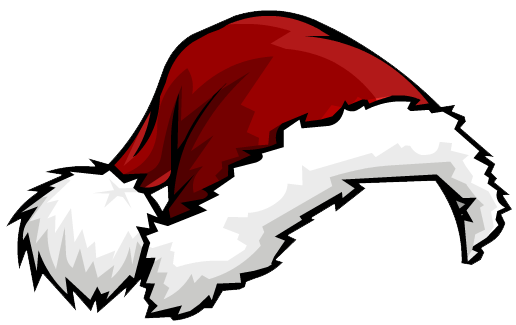
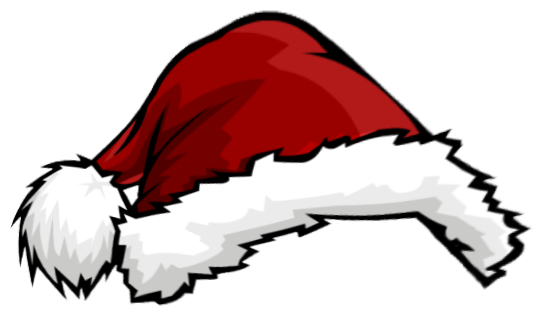
two methods od snowstorm, check webpack min in prod, starting resume hat

diff --git a/static/snowstorm-min.js b/static/snowstorm-min.js
@@ -1,0 +1,1 @@
+var snowStorm=function(o,l){this.autoStart=!0,this.excludeMobile=!1,this.flakesMax=48,this.flakesMaxActive=48,this.animationInterval=30,this.useGPU=!0,this.className=null,this.flakeBottom=null,this.followMouse=!1,this.snowColor="#d6e9ff",this.snowCharacter="❅",this.snowStick=!1,this.targetElement=null,this.useMeltEffect=!0,this.useTwinkleEffect=!1,this.usePositionFixed=!0,this.usePixelPosition=!0,this.freezeOnBlur=!1,this.flakeLeftOffset=0,this.flakeRightOffset=0,this.flakeWidth=16,this.flakeHeight=16,this.vMaxX=2,this.vMaxY=2,this.zIndex=999;var n,a=this,t=navigator.userAgent.match(/msie/i),e=navigator.userAgent.match(/msie 6/i),i=navigator.userAgent.match(/mobile|opera m(ob|in)/i),r=t&&"BackCompat"===l.compatMode||e,f=null,s=null,m=null,h=null,u=null,c=null,d=null,v=1,p=!1,y=!1,k=function(){try{l.createElement("div").style.opacity="0.5"}catch(e){return!1}return!0}(),g=!1,x=l.createDocumentFragment();function w(e,t){return isNaN(t)&&(t=0),Math.random()*e+t}function F(){o.setTimeout(function(){a.start(!0)},20),a.events.remove(t?l:o,"mousemove",F)}return n=function(){var e;var t,i=o.requestAnimationFrame||o.webkitRequestAnimationFrame||o.mozRequestAnimationFrame||o.oRequestAnimationFrame||o.msRequestAnimationFrame||function(e){o.setTimeout(e,1e3/(a.animationInterval||20))};function s(e){return void 0!==t.style[e]?e:null}e=i?function(){return i.apply(o,arguments)}:null,t=l.createElement("div");var n={transform:{ie:s("-ms-transform"),moz:s("MozTransform"),opera:s("OTransform"),webkit:s("webkitTransform"),w3:s("transform"),prop:null},getAnimationFrame:e};return n.transform.prop=n.transform.w3||n.transform.moz||n.transform.webkit||n.transform.ie||n.transform.opera,t=null,n}(),this.timer=null,this.flakes=[],this.disabled=!1,this.active=!1,this.meltFrameCount=20,this.meltFrames=[],this.setXY=function(e,t,i){if(!e)return!1;a.usePixelPosition||y?(e.style.left=t-a.flakeWidth+"px",e.style.top=i-a.flakeHeight+"px"):r?(e.style.right=100-t/f*100+"%",e.style.top=Math.min(i,u-a.flakeHeight)+"px"):a.flakeBottom?(e.style.right=100-t/f*100+"%",e.style.top=Math.min(i,u-a.flakeHeight)+"px"):(e.style.right=100-t/f*100+"%",e.style.bottom=100-i/m*100+"%")},this.events=function(){var n=!o.addEventListener&&o.attachEvent,s=Array.prototype.slice,l={add:n?"attachEvent":"addEventListener",remove:n?"detachEvent":"removeEventListener"};function e(e){var t=s.call(e),i=t.length;return n?(t[1]="on"+t[1],3<i&&t.pop()):3===i&&t.push(!1),t}function t(e,t){var i=e.shift(),s=[l[t]];n?i[s](e[0],e[1]):i[s].apply(i,e)}return{add:function(){t(e(arguments),"add")},remove:function(){t(e(arguments),"remove")}}}(),this.randomizeWind=function(){var e,t;if(t=w(a.vMaxX,.2),c=1===parseInt(w(2),10)?-1*t:t,d=w(a.vMaxY,.2),this.flakes)for(e=0;e<this.flakes.length;e++)this.flakes[e].active&&this.flakes[e].setVelocities()},this.scrollHandler=function(){var e;if(h=a.flakeBottom?0:parseInt(o.scrollY||l.documentElement.scrollTop||(r?l.body.scrollTop:0),10),isNaN(h)&&(h=0),!p&&!a.flakeBottom&&a.flakes)for(e=0;e<a.flakes.length;e++)0===a.flakes[e].active&&a.flakes[e].stick()},this.resizeHandler=function(){o.innerWidth||o.innerHeight?(f=o.innerWidth-16-a.flakeRightOffset,m=a.flakeBottom||o.innerHeight):(f=(l.documentElement.clientWidth||l.body.clientWidth||l.body.scrollWidth)-(t?0:8)-a.flakeRightOffset,m=a.flakeBottom||l.documentElement.clientHeight||l.body.clientHeight||l.body.scrollHeight),u=l.body.offsetHeight,s=parseInt(f/2,10)},this.resizeHandlerAlt=function(){f=a.targetElement.offsetWidth-a.flakeRightOffset,m=a.flakeBottom||a.targetElement.offsetHeight,s=parseInt(f/2,10),u=l.body.offsetHeight},this.freeze=function(){if(a.disabled)return!1;a.disabled=1,a.timer=null},this.resume=function(){if(!a.disabled)return!1;a.disabled=0,a.timerInit()},this.toggleSnow=function(){a.flakes.length?(a.active=!a.active,a.active?(a.show(),a.resume()):(a.stop(),a.freeze())):a.start()},this.stop=function(){var e;for(this.freeze(),e=0;e<this.flakes.length;e++)this.flakes[e].o.style.display="none";a.events.remove(o,"scroll",a.scrollHandler),a.events.remove(o,"resize",a.resizeHandler),a.freezeOnBlur&&(t?(a.events.remove(l,"focusout",a.freeze),a.events.remove(l,"focusin",a.resume)):(a.events.remove(o,"blur",a.freeze),a.events.remove(o,"focus",a.resume)))},this.show=function(){var e;for(e=0;e<this.flakes.length;e++)this.flakes[e].o.style.display="block"},this.SnowFlake=function(e,t,i){var s=this;this.type=e,this.x=t||parseInt(w(f-20),10),this.y=isNaN(i)?-w(m)-12:i,this.vX=null,this.vY=null,this.vAmpTypes=[1,1.2,1.4,1.6,1.8],this.vAmp=this.vAmpTypes[this.type]||1,this.melting=!1,this.meltFrameCount=a.meltFrameCount,this.meltFrames=a.meltFrames,this.meltFrame=0,this.twinkleFrame=0,this.active=1,this.fontSize=10+this.type/5*10,this.o=l.createElement("div"),this.o.innerHTML=a.snowCharacter,a.className&&this.o.setAttribute("class",a.className),this.o.style.color=a.snowColor,this.o.style.position=p?"fixed":"absolute",a.useGPU&&n.transform.prop&&(this.o.style[n.transform.prop]="translate3d(0px, 0px, 0px)"),this.o.style.width=a.flakeWidth+"px",this.o.style.height=a.flakeHeight+"px",this.o.style.fontFamily="arial,verdana",this.o.style.cursor="default",this.o.style.overflow="hidden",this.o.style.fontWeight="normal",this.o.style.zIndex=a.zIndex,x.appendChild(this.o),this.refresh=function(){if(isNaN(s.x)||isNaN(s.y))return!1;a.setXY(s.o,s.x,s.y)},this.stick=function(){r||a.targetElement!==l.documentElement&&a.targetElement!==l.body?s.o.style.top=m+h-a.flakeHeight+"px":a.flakeBottom?s.o.style.top=a.flakeBottom+"px":(s.o.style.display="none",s.o.style.top="auto",s.o.style.bottom="0%",s.o.style.position="fixed",s.o.style.display="block")},this.vCheck=function(){0<=s.vX&&s.vX<.2?s.vX=.2:s.vX<0&&-.2<s.vX&&(s.vX=-.2),0<=s.vY&&s.vY<.2&&(s.vY=.2)},this.move=function(){var e=s.vX*v;s.x+=e,s.y+=s.vY*s.vAmp,s.x>=f||f-s.x<a.flakeWidth?s.x=0:e<0&&s.x-a.flakeLeftOffset<-a.flakeWidth&&(s.x=f-a.flakeWidth-1),s.refresh(),m+h-s.y+a.flakeHeight<a.flakeHeight?(s.active=0,a.snowStick?s.stick():s.recycle()):(a.useMeltEffect&&s.active&&s.type<3&&!s.melting&&.998<Math.random()&&(s.melting=!0,s.melt()),a.useTwinkleEffect&&(s.twinkleFrame<0?.97<Math.random()&&(s.twinkleFrame=parseInt(8*Math.random(),10)):(s.twinkleFrame--,k?s.o.style.opacity=s.twinkleFrame&&s.twinkleFrame%2==0?0:1:s.o.style.visibility=s.twinkleFrame&&s.twinkleFrame%2==0?"hidden":"visible")))},this.animate=function(){s.move()},this.setVelocities=function(){s.vX=c+w(.12*a.vMaxX,.1),s.vY=d+w(.12*a.vMaxY,.1)},this.setOpacity=function(e,t){if(!k)return!1;e.style.opacity=t},this.melt=function(){a.useMeltEffect&&s.melting&&s.meltFrame<s.meltFrameCount?(s.setOpacity(s.o,s.meltFrames[s.meltFrame]),s.o.style.fontSize=s.fontSize-s.fontSize*(s.meltFrame/s.meltFrameCount)+"px",s.o.style.lineHeight=a.flakeHeight+2+.75*a.flakeHeight*(s.meltFrame/s.meltFrameCount)+"px",s.meltFrame++):s.recycle()},this.recycle=function(){s.o.style.display="none",s.o.style.position=p?"fixed":"absolute",s.o.style.bottom="auto",s.setVelocities(),s.vCheck(),s.meltFrame=0,s.melting=!1,s.setOpacity(s.o,1),s.o.style.padding="0px",s.o.style.margin="0px",s.o.style.fontSize=s.fontSize+"px",s.o.style.lineHeight=a.flakeHeight+2+"px",s.o.style.textAlign="center",s.o.style.verticalAlign="baseline",s.x=parseInt(w(f-a.flakeWidth-20),10),s.y=parseInt(-1*w(m),10)-a.flakeHeight,s.refresh(),s.o.style.display="block",s.active=1},this.recycle(),this.refresh()},this.snow=function(){var e,t,i=0,s=null;for(e=0,t=a.flakes.length;e<t;e++)1===a.flakes[e].active&&(a.flakes[e].move(),i++),a.flakes[e].melting&&a.flakes[e].melt();i<a.flakesMaxActive&&0===(s=a.flakes[parseInt(w(a.flakes.length),10)]).active&&(s.melting=!0),a.timer&&n.getAnimationFrame(a.snow)},this.mouseMove=function(e){if(!a.followMouse)return!0;var t=parseInt(e.clientX,10);v=t<s?t/s*2-2:(t-=s)/s*2},this.createSnow=function(e,t){var i;for(i=0;i<e;i++)a.flakes[a.flakes.length]=new a.SnowFlake(parseInt(w(6),10)),(t||i>a.flakesMaxActive)&&(a.flakes[a.flakes.length-1].active=-1);a.targetElement.appendChild(x)},this.timerInit=function(){a.timer=!0,a.snow()},this.init=function(){var e;for(e=0;e<a.meltFrameCount;e++)a.meltFrames.push(1-e/a.meltFrameCount);a.randomizeWind(),a.createSnow(a.flakesMax),a.events.add(o,"resize",a.resizeHandler),a.events.add(o,"scroll",a.scrollHandler),a.freezeOnBlur&&(t?(a.events.add(l,"focusout",a.freeze),a.events.add(l,"focusin",a.resume)):(a.events.add(o,"blur",a.freeze),a.events.add(o,"focus",a.resume))),a.resizeHandler(),a.scrollHandler(),a.followMouse&&a.events.add(t?l:o,"mousemove",a.mouseMove),a.animationInterval=Math.max(20,a.animationInterval),a.timerInit()},this.start=function(e){if(g){if(e)return!0}else g=!0;if("string"==typeof a.targetElement){var t=a.targetElement;if(a.targetElement=l.getElementById(t),!a.targetElement)throw new Error('Snowstorm: Unable to get targetElement "'+t+'"')}if(a.targetElement||(a.targetElement=l.body||l.documentElement),a.targetElement!==l.documentElement&&a.targetElement!==l.body&&(a.resizeHandler=a.resizeHandlerAlt,a.usePixelPosition=!0),a.resizeHandler(),a.usePositionFixed=a.usePositionFixed&&!r&&!a.flakeBottom,o.getComputedStyle)try{y="relative"===o.getComputedStyle(a.targetElement,null).getPropertyValue("position")}catch(e){y=!1}p=a.usePositionFixed,f&&m&&!a.disabled&&(a.init(),a.active=!0)},a.autoStart&&a.events.add(o,"load",function e(){a.excludeMobile&&i||F(),a.events.remove(o,"load",e)},!1),this}(window,document);

diff --git a/src/components/BaseLayout.js b/src/components/BaseLayout.js
@@ -1,17 +1,22 @@
 import React from 'react'
-import { StaticQuery, graphql } from 'gatsby'
+// eslint-disable-next-line
+import { StaticQuery, graphql, withPrefix } from 'gatsby'
 import Helmet from 'react-helmet'
 import Styled, { ThemeProvider, createGlobalStyle } from 'styled-components'
 import Cookies from 'universal-cookie'
 
 import '../css/prism-material.css'
-import '../js/snowstorm.js'
 import Header from './Header'
 import Footer from './Footer'
 import { DarkTheme, LightTheme } from '../utils/Theme'
 import { FontSans, LinkStyle } from '../utils/Text'
 
 const cookies = new Cookies()
+const now = new Date()
+const currentMonth = now.getMonth()+1
+if(currentMonth === 12) {
+  import('../js/snowstorm.js')
+}
 
 export default class BaseLayout extends React.Component {
   constructor(props) {
@@ -120,6 +125,9 @@ export default class BaseLayout extends React.Component {
                 <meta name="description" content={data.site.siteMetadata.description}/>
                 <meta name="author" content={data.site.siteMetadata.author}/>
                 <link rel="canonical" href={`${data.site.siteMetadata.url}${location.pathname}`}/>
+                {/* {currentMonth === 12 &&
+                  <script type='text/javascript' src={withPrefix('/snowstorm-min.js')}/>
+                } */}
               </Helmet>
               <Header/>
               <MainWrapper>

diff --git a/src/js/snowstorm.js b/src/js/snowstorm.js
@@ -10,7 +10,7 @@
 
 /*jslint nomen: true, plusplus: true, sloppy: true, vars: true, white: true */
 /*global window, document, navigator, clearInterval, setInterval */
-
+// eslint-disable-next-line
 var snowStorm = (function(window, document) {
 
   // --- common properties ---
@@ -24,7 +24,7 @@ var snowStorm = (function(window, document) {
   this.className = null;          // CSS class name for further customization on snow elements
   this.flakeBottom = null;        // Integer for Y axis snow limit, 0 or null for "full-screen" snow effect
   this.followMouse = false;       // Snow movement can respond to the user's mouse
-  this.snowColor = '#fff';        // Don't eat (or use?) yellow snow.
+  this.snowColor = '#d6e9ff';     // Don't eat (or use?) yellow snow.
   this.snowCharacter = '❅';       // &bull; = bullet, &middot; is square on some systems etc.
   this.snowStick = false;         // Whether or not snow should "stick" at the bottom. When off, will never collect.
   this.targetElement = null;      // element which snow will be appended to (null = document.body) - can be an element ID eg. 'myDiv', or a DOM node reference

diff --git a/src/pages/resume.js b/src/pages/resume.js
@@ -11,6 +11,7 @@ import canvg from 'canvg'
 import _ from 'lodash'
 
 import '../css/resume.css'
+import santaHat from '../images/santa-hat.png'
 import BaseLayout from '../components/BaseLayout'
 import GenericButton from '../components/GenericButton'
 import SmartLink from '../components/SmartLink'
@@ -211,6 +212,13 @@ class ResumePage extends React.Component {
       line-height: 1.375;
       color: ${props => props.theme.text};
       background-color: white;
+    `
+    const SantaHat = Styled.img`
+      width: 9rem;
+      position: absolute;
+      top: 16rem;
+      left: 4rem;
+      z-index: 2;
     `
     const Header = Styled.div`
       display: flex;
@@ -706,6 +714,7 @@ class ResumePage extends React.Component {
               />
             </FilterWrapper>
           </FilterContainer>
+          <SantaHat src={santaHat} alt='Santa Hat'/>
           <ThemeProvider theme={LightTheme}>
             <ResumeContainer>
               <ResumeWrapper className='resume-root' ref={(resume) => this.resume = resume}>

diff --git a/src/templates/ProjectPost.js b/src/templates/ProjectPost.js
@@ -88,7 +88,7 @@ class ProjectPost extends React.Component {
   render() {
     const { markdownRemark, allMarkdownRemark } = this.props.data
     const { htmlAst, frontmatter } = markdownRemark
-    const crop = frontmatter.allowCropping === undefined ? true : frontmatter.allowCropping
+    const crop = (frontmatter.allowCropping === false) ? false : true
     let tabs = []
     let contents = {}
 

diff --git a/gatsby-config.js b/gatsby-config.js
@@ -7,6 +7,7 @@ const hastToHTML = require('hast-util-to-html')
 const visit = require('unist-util-visit')
 
 module.exports = {
+  pathPrefix: '/',
   siteMetadata: {
     author: 'Kyle Carson',
     about: 'Software & Computer Engineer',
